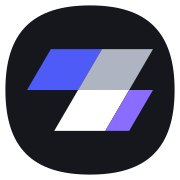
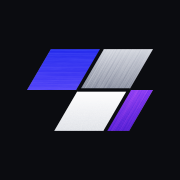
feat: nueva marca anodizada, en 3D y en todos los iconos
El logo 3D pasa a aluminio cepillado y teñido, con biseles pulidos y una
pieza de cerámica clara. La misma versión en plano sustituye los favicons,
los iconos, los logos, la tarjeta para compartir y el tablero de marca, con
los mismos nombres y medidas. Todos los iconos llevan el fondo negro, y así
se ven por fin las cuatro piezas. Los logos pasan a Outfit, la letra de la
web, y el icono maskable queda dentro de la zona segura de Android.

diff --git a/src/components/home/scene.ts b/src/components/home/scene.ts
@@ -13,7 +13,8 @@ export interface SceneState {
 
 const PHONE_WIDTH = 820;
 
-function buildSurface(size: number) {
+/** Random height field, tiling. With alongX the noise only smears sideways, into long streaks. */
+function buildHeight(size: number, layers: number[][], alongX = false) {
   const n = size * size;
   const height = new Float32Array(n);
   const blur = (src: Float32Array, r: number) => {
@@ -28,6 +29,7 @@ function buildSurface(size: number) {
         sum += src[y * size + ((x + r + 1) % size)] - src[y * size + ((x - r + size) % size)];
       }
     }
+    if (alongX) return a;
     for (let x = 0; x < size; x++) {
       let sum = 0;
       for (let k = -r; k <= r; k++) sum += a[((k + size) % size) * size + x];
@@ -38,12 +40,16 @@ function buildSurface(size: number) {
     }
     return out;
   };
-  for (const [r, gain] of [[1, 1.3], [2, 2], [5, 3], [18, 7]]) {
+  for (const [r, gain] of layers) {
     const raw = new Float32Array(n);
     for (let i = 0; i < n; i++) raw[i] = Math.random() - 0.5;
     const b = blur(raw, r);
     for (let i = 0; i < n; i++) height[i] += b[i] * gain;
   }
+  return height;
+}
+
+function buildMaps(height: Float32Array, size: number, strength: number, roughness: (h: number) => number) {
   const make = () => {
     const c = document.createElement("canvas");
     c.width = c.height = size;
@@ -55,7 +61,6 @@ function buildSurface(size: number) {
   const rCtx = rough.getContext("2d")!;
   const nImg = nCtx.createImageData(size, size);
   const rImg = rCtx.createImageData(size, size);
-  const strength = 3.4;
   for (let y = 0; y < size; y++) {
     for (let x = 0; x < size; x++) {
       const i = y * size + x;
@@ -63,7 +68,7 @@ function buildSurface(size: number) {
       const dy = (height[((y + 1) % size) * size + x] - height[((y - 1 + size) % size) * size + x]) * strength;
       const len = Math.hypot(dx, dy, 1);
       nImg.data.set([(-dx / len + 1) * 127.5, (-dy / len + 1) * 127.5, (1 / len + 1) * 127.5, 255], i * 4);
-      const v = Math.max(175, Math.min(255, 218 + height[i] * 220));
+      const v = roughness(height[i]);
       rImg.data.set([v, v, v, 255], i * 4);
     }
   }
@@ -71,6 +76,14 @@ function buildSurface(size: number) {
   rCtx.putImageData(rImg, 0, 0);
   return { normal, rough };
 }
+
+const clamp = THREE.MathUtils.clamp;
+const buildSurface = (size: number) =>
+  buildMaps(buildHeight(size, [[1, 1.3], [2, 2], [5, 3], [18, 7]]), size, 3.4, (h) => clamp(218 + h * 220, 175, 255));
+const buildBrushed = (size: number) =>
+  buildMaps(buildHeight(size, [[90, 9], [24, 4]], true), size, 2.2, (h) => clamp(158 + h * 160, 138, 178));
+const buildBead = (size: number) =>
+  buildMaps(buildHeight(size, [[1, 1.1], [2, 1]]), size, 1.5, (h) => clamp(190 + h * 260, 130, 255));
 
 /** Starts the scene. Returns a stop function, or null when WebGL is unavailable. */
 export function startScene(
@@ -98,9 +111,9 @@ export function startScene(
   const camera = new THREE.PerspectiveCamera(30, 1, 0.1, 60);
   camera.position.z = 12;
 
-  // Studio reflections for the logo: a dark room with long light strips.
+  // Studio reflections for the logo: a dark room with soft boxes and a rim.
   const room = new THREE.Scene();
-  room.background = new THREE.Color(0x020203);
+  room.background = new THREE.Color(0x07080c);
   const strip = (w: number, h: number, x: number, y: number, z: number, power: number, tint: number) => {
     const m = new THREE.Mesh(
       new THREE.PlaneGeometry(w, h),
@@ -110,9 +123,11 @@ export function startScene(
     m.lookAt(0, 0, 0);
     room.add(m);
   };
-  strip(9, 2, -4, 7, 6, 9, 0xffffff);
-  strip(2, 9, 8, 1, 5, 5, 0xc9ceff);
-  strip(10, 1.2, 0, -7, 5, 2.5, 0x8a7cff);
+  strip(12, 5, -3, 8, 6, 5.5, 0xffffff);
+  strip(1.6, 11, 9, 1, 4, 7, 0xdfe3ff);
+  strip(1, 9, -9, -1, 5, 3, 0xaab2ff);
+  strip(12, 1.4, 1, -8, 5, 2.2, 0x7f78ff);
+  strip(6, 6, 0, 1, 12, 0.45, 0xffffff);
   const pmrem = new THREE.PMREMGenerator(renderer);
   world.environment = pmrem.fromScene(room, 0.035).texture;
   pmrem.dispose();
@@ -153,12 +168,40 @@ export function startScene(
   light.shadow.normalBias = 0.02;
   world.add(light, light.target);
 
+  // The logo's finish: brushed anodized metal, with the grain following the mark's
+  // own slanted edge, and one blasted white ceramic facet.
+  const brushedMaps = buildBrushed(512);
+  const beadMaps = buildBead(512);
+  const finishTextures: THREE.Texture[] = [];
+  const finishTex = (c: HTMLCanvasElement, repeat: number, rotation: number) => {
+    const t = new THREE.CanvasTexture(c);
+    t.wrapS = t.wrapT = THREE.RepeatWrapping;
+    t.repeat.set(repeat, repeat);
+    t.rotation = rotation;
+    t.colorSpace = THREE.NoColorSpace;
+    t.anisotropy = renderer.capabilities.getMaxAnisotropy();
+    finishTextures.push(t);
+    return t;
+  };
+  const brushed = (rotation: number) => ({
+    normalMap: finishTex(brushedMaps.normal, 0.09, rotation),
+    normalScale: new THREE.Vector2(0.13, 0.13),
+    roughnessMap: finishTex(brushedMaps.rough, 0.09, rotation),
+    anisotropy: 0.75,
+  });
+  const bead = () => ({
+    normalMap: finishTex(beadMaps.normal, 0.12, 0),
+    normalScale: new THREE.Vector2(0.18, 0.18),
+    roughnessMap: finishTex(beadMaps.rough, 0.12, 0),
+  });
+  const SLANT = 1.04;
+
   // Logo: the four facets from the brand mark, one mesh each so they can open.
   const facets = [
-    { pts: [[26, 30], [56, 30], [42, 54], [12, 54]], color: 0x4450f0, metal: 0.35, rough: 0.46 },
-    { pts: [[56, 30], [86, 30], [72, 54], [42, 54]], color: 0xaeb4c2, metal: 0.85, rough: 0.4 },
-    { pts: [[42, 54], [72, 54], [58, 78], [28, 78]], color: 0xe6e9ef, metal: 0.1, rough: 0.5 },
-    { pts: [[58, 78], [72, 54], [86, 54], [72, 78]], color: 0x7d5cf5, metal: 0.35, rough: 0.46 },
+    { pts: [[26, 30], [56, 30], [42, 54], [12, 54]], color: 0x2430f0, metal: 1, rough: 0.72, finish: brushed(0) },
+    { pts: [[56, 30], [86, 30], [72, 54], [42, 54]], color: 0x9297a6, metal: 1, rough: 0.68, finish: brushed(SLANT) },
+    { pts: [[42, 54], [72, 54], [58, 78], [28, 78]], color: 0xc8cad2, metal: 0, rough: 0.74, finish: bead() },
+    { pts: [[58, 78], [72, 54], [86, 54], [72, 78]], color: 0x6a35f0, metal: 1, rough: 0.72, finish: brushed(SLANT) },
   ];
   const MARK_CENTER = [49, 54];
   const logo = new THREE.Group();
@@ -176,10 +219,11 @@ export function startScene(
       curveSegments: 1,
     });
     geo.translate(0, 0, -3);
-    const mesh = new THREE.Mesh(
-      geo,
-      new THREE.MeshStandardMaterial({ color: f.color, metalness: f.metal, roughness: f.rough, envMapIntensity: 1.25 }),
-    );
+    // ExtrudeGeometry groups: 0 is the textured face, 1 the bevel and sides, polished clean.
+    const mesh = new THREE.Mesh(geo, [
+      new THREE.MeshPhysicalMaterial({ color: f.color, metalness: f.metal, roughness: f.rough, envMapIntensity: 1.5, ...f.finish }),
+      new THREE.MeshPhysicalMaterial({ color: f.color, metalness: f.metal, roughness: f.metal ? 0.26 : f.rough, envMapIntensity: 1.5 }),
+    ]);
     mesh.castShadow = true;
     mesh.receiveShadow = true;
     const home = new THREE.Vector2(cx - MARK_CENTER[0], MARK_CENTER[1] - cy);
@@ -311,8 +355,9 @@ export function startScene(
     wall.material.dispose();
     for (const f of meshes) {
       f.mesh.geometry.dispose();
-      f.mesh.material.dispose();
+      for (const m of f.mesh.material) m.dispose();
     }
+    for (const t of finishTextures) t.dispose();
     renderer.dispose();
   };
 }

diff --git a/src/app/(site)/opengraph-image.tsx b/src/app/(site)/opengraph-image.tsx
@@ -25,10 +25,29 @@ export default async function OgImage() {
         <div style={{ display: "flex", justifyContent: "space-between", alignItems: "flex-start" }}>
           <div style={{ fontSize: 34, fontWeight: 300 }}>{siteConfig.name}</div>
           <svg width={190} height={133} viewBox="6 24 86 60">
-            <path d="M26 30 L56 30 L42 54 L12 54 Z" fill="#4F5BF7" />
-            <path d="M56 30 L86 30 L72 54 L42 54 Z" fill="#AEB4C2" />
-            <path d="M42 54 L72 54 L58 78 L28 78 Z" fill="#F4F6F8" />
-            <path d="M58 78 L72 54 L86 54 L72 78 Z" fill="#8A6CFF" />
+            <defs>
+              <linearGradient id="blue" gradientUnits="userSpaceOnUse" x1="0" y1="30" x2="0" y2="54">
+                <stop offset="0" stopColor="#2A31EE" />
+                <stop offset="1" stopColor="#5546F7" />
+              </linearGradient>
+              <linearGradient id="titanium" gradientUnits="userSpaceOnUse" x1="0" y1="30" x2="0" y2="54">
+                <stop offset="0" stopColor="#D5D8E0" />
+                <stop offset="1" stopColor="#8E93A3" />
+              </linearGradient>
+              <linearGradient id="pale" gradientUnits="userSpaceOnUse" x1="0" y1="54" x2="0" y2="78">
+                <stop offset="0" stopColor="#FFFFFF" />
+                <stop offset="1" stopColor="#E2E4E9" />
+              </linearGradient>
+              <linearGradient id="violet" gradientUnits="userSpaceOnUse" x1="0" y1="54" x2="0" y2="78">
+                <stop offset="0" stopColor="#8E3FF2" />
+                <stop offset="1" stopColor="#5A22D6" />
+              </linearGradient>
+            </defs>
+            <path d="M26 30 L56 30 L42 54 L12 54 Z" fill="url(#blue)" />
+            <path d="M56 30 L86 30 L72 54 L42 54 Z" fill="url(#titanium)" />
+            <path d="M42 54 L72 54 L58 78 L28 78 Z" fill="url(#pale)" />
+            <path d="M58 78 L72 54 L86 54 L72 78 Z" fill="url(#violet)" />
+            <path d="M56 30 L42 54 L72 54 L58 78" fill="none" stroke="#08090B" strokeWidth={2} strokeLinejoin="round" strokeLinecap="round" />
           </svg>
         </div>
 

diff --git a/src/components/home/Home.tsx b/src/components/home/Home.tsx
@@ -251,10 +251,11 @@ export function Home() {
       />
       {sceneMode === "flat" ? (
         <svg id="flat-logo" viewBox="6 24 86 60" aria-hidden="true">
-          <path d="M26 30 L56 30 L42 54 L12 54 Z" fill="#4F5BF7" />
-          <path d="M56 30 L86 30 L72 54 L42 54 Z" fill="#AEB4C2" />
-          <path d="M42 54 L72 54 L58 78 L28 78 Z" fill="#F4F6F8" />
-          <path d="M58 78 L72 54 L86 54 L72 78 Z" fill="#8A6CFF" />
+          <path d="M26 30 L56 30 L42 54 L12 54 Z" fill="#403CF3" />
+          <path d="M56 30 L86 30 L72 54 L42 54 Z" fill="#B2B6C2" />
+          <path d="M42 54 L72 54 L58 78 L28 78 Z" fill="#F1F2F4" />
+          <path d="M58 78 L72 54 L86 54 L72 78 Z" fill="#7431E4" />
+          <path d="M56 30 L42 54 L72 54 L58 78" fill="none" stroke="#08090B" strokeWidth="2" strokeLinejoin="round" strokeLinecap="round" />
         </svg>
       ) : null}
       <div className="film" aria-hidden="true" />

diff --git a/src/app/(site)/home.css b/src/app/(site)/home.css
@@ -8,8 +8,8 @@
   --text: #f4f6f8;
   --muted: #a2a8b6;
   --quiet: #8b90a0;
-  --accent: #4550ff;
-  --accent-soft: #8a5cff;
+  --accent: #3a46ff;
+  --accent-soft: #7a45ff;
   --display: var(--font-display-home), "Helvetica Neue", Arial, sans-serif;
   --body: var(--font-body-home), "Helvetica Neue", Arial, sans-serif;
   --mark: var(--font-mark), "Helvetica Neue", Arial, sans-serif;
@@ -249,7 +249,7 @@ textarea.field { height: clamp(66px, 15vh, 140px); resize: none; }
   text-decoration: none;
   transition: background .2s ease;
 }
-.send:hover { background: #5a64ff; }
+.send:hover { background: #5560ff; }
 .send:disabled { opacity: .6; cursor: progress; }
 .err { margin: 16px 0 0 !important; color: #ff9d9d !important; }
 .note { margin-top: clamp(8px, 1.5vh, 14px) !important; margin-bottom: 0 !important; font-size: 13px; }

diff --git a/src/app/(site)/layout.tsx b/src/app/(site)/layout.tsx
@@ -28,7 +28,7 @@ export const metadata: Metadata = {
     icon: [
       { url: "/favicon.ico", sizes: "any" },
       // Google picks the largest declared icon for search results, and wants
-      // a multiple of 48px — keep every variant on the same blue mark.
+      // a multiple of 48px — keep every variant on the same dark mark.
       { url: "/favicon-48.png", type: "image/png", sizes: "48x48" },
       { url: "/favicon-32.png", type: "image/png", sizes: "32x32" },
       { url: "/favicon-16.png", type: "image/png", sizes: "16x16" },

diff --git a/fentriqresources/README.md b/fentriqresources/README.md
@@ -1,7 +1,10 @@
 # Fentriq — Brand Kit
 
 Símbolo: **Folded Band** — una cinta de planos plegados que representa el stack completo
-(front, back, Web3, IA, data) plegado en una sola pieza con impulso. Estudio de software full-stack.
+(front, back, Web3, IA, data) plegado en una sola pieza con impulso.
+
+Acabado: **Anodizado**. En la web es el logo 3D de aluminio cepillado (`src/components/home/scene.ts`);
+estos archivos son esa misma versión en plano.
 
 ## Archivos
 
@@ -10,40 +13,35 @@ Símbolo: **Folded Band** — una cinta de planos plegados que representa el sta
 - `fentriq-stacked.svg` — apilado (espacios cuadrados/verticales).
 - `fentriq-reverse.svg` — para fondo oscuro.
 - `fentriq-mono-dark.svg` / `fentriq-mono-white.svg` — una sola tinta (sellos, B/N).
-- `fentriq-mark.svg` / `fentriq-mark-mono.svg` — solo el símbolo.
+- `fentriq-mark.svg` — solo el símbolo.
 
 **Íconos**
-- `fentriq-icon-dark.svg` / `fentriq-icon-accent.svg` — squircle (app / avatar redes).
-- `fentriq-icon-maskable.svg` — full-bleed para Android adaptive icons.
+- `fentriq-icon-dark.svg` — squircle negro. Es la versión que usan todos los iconos de la web.
+- `fentriq-icon-accent.svg` — squircle azul, para usos sueltos.
 
-**Favicons / web**
+**Favicons / web (en `public/`)**
 - `favicon.ico` (16/32/48), `favicon-16.png`, `favicon-32.png`, `favicon-48.png`
 - `apple-touch-icon.png` (180), `icon-512.png`, `fentriq-icon-maskable-512.png`
 - `site.webmanifest`
 
-**PNG de respaldo (transparentes):** `fentriq-primary.png`, `fentriq-reverse.png`,
-`fentriq-stacked.png`, `*-512.png`.
+Todos los iconos declarados llevan la misma versión: Google elige el mayor de los declarados
+para los resultados de búsqueda, y si uno es distinto aparece ese.
 
 ## Colores
-- Tinta: `#15171C`
-- Gris facetado: `#3A3F4C` (claro: `#AEB4C2`)
-- Acento índigo: `#4F5BF7`
-- Acento violeta: `#8A6CFF`
+Cada pieza va en degradado, de arriba abajo. En 16 px, colores lisos.
+
+| Pieza | Sobre oscuro | Sobre claro |
+|---|---|---|
+| Azul anodizado | `#2A31EE` → `#5546F7` | igual |
+| Titanio | `#D5D8E0` → `#8E93A3` | `#5D6170` → `#3A3D49` |
+| Claro | `#FFFFFF` → `#E2E4E9` | `#2A2D36` → `#15171C` |
+| Violeta anodizado | `#8E3FF2` → `#5A22D6` | igual |
+
+- Fondo de iconos: `#0B0C10`
+- Acento de la web: `#3A46FF`, y `#7A45FF` al pasar el ratón
 
 ## Tipografía
-- Wordmark: **Space Grotesk** SemiBold. Para textos de marca usá Space Grotesk
-  (Regular/Medium para cuerpo, SemiBold/Bold para títulos).
-
-## Snippet para el `<head>` de la web
-
-```html
-<link rel="icon" href="/favicon.ico" sizes="any">
-<link rel="icon" type="image/png" sizes="32x32" href="/favicon-32.png">
-<link rel="icon" type="image/png" sizes="16x16" href="/favicon-16.png">
-<link rel="apple-touch-icon" sizes="180x180" href="/apple-touch-icon.png">
-<link rel="manifest" href="/site.webmanifest">
-<meta name="theme-color" content="#15171C">
-```
+- Wordmark: **Outfit** Regular.
 
 ## Uso
 - Dejá aire alrededor del logo (mínimo = la altura del símbolo).
